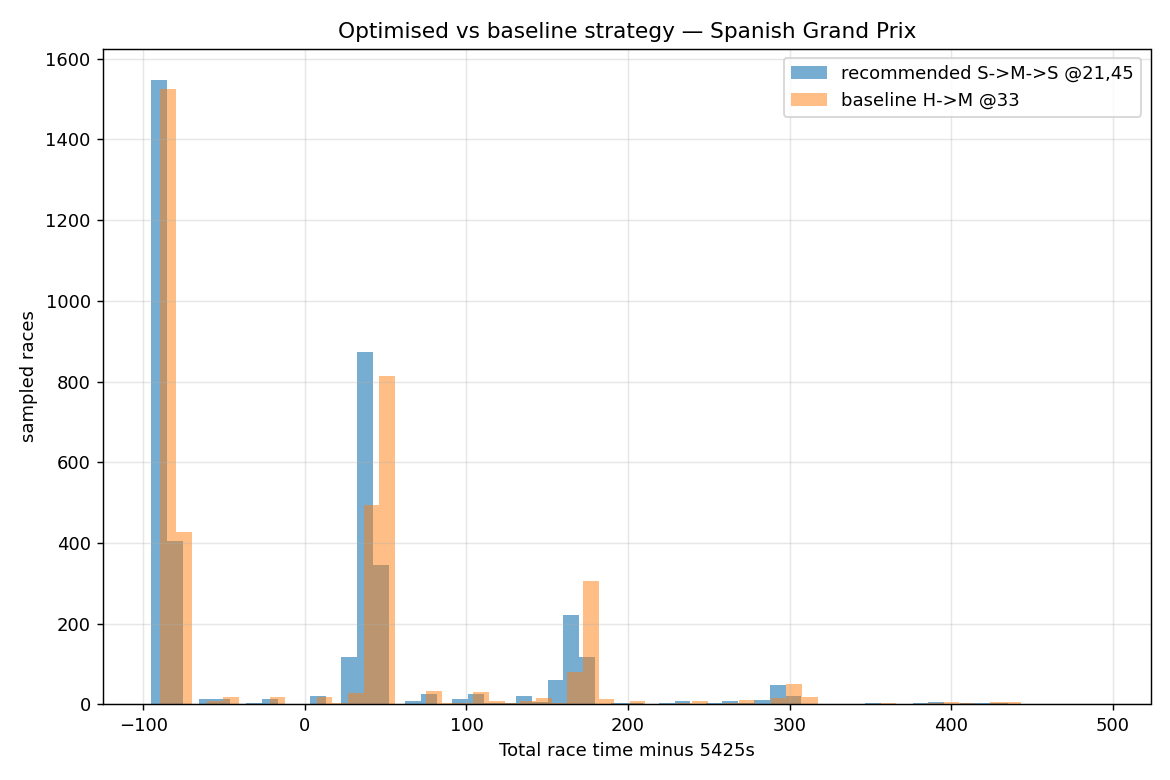
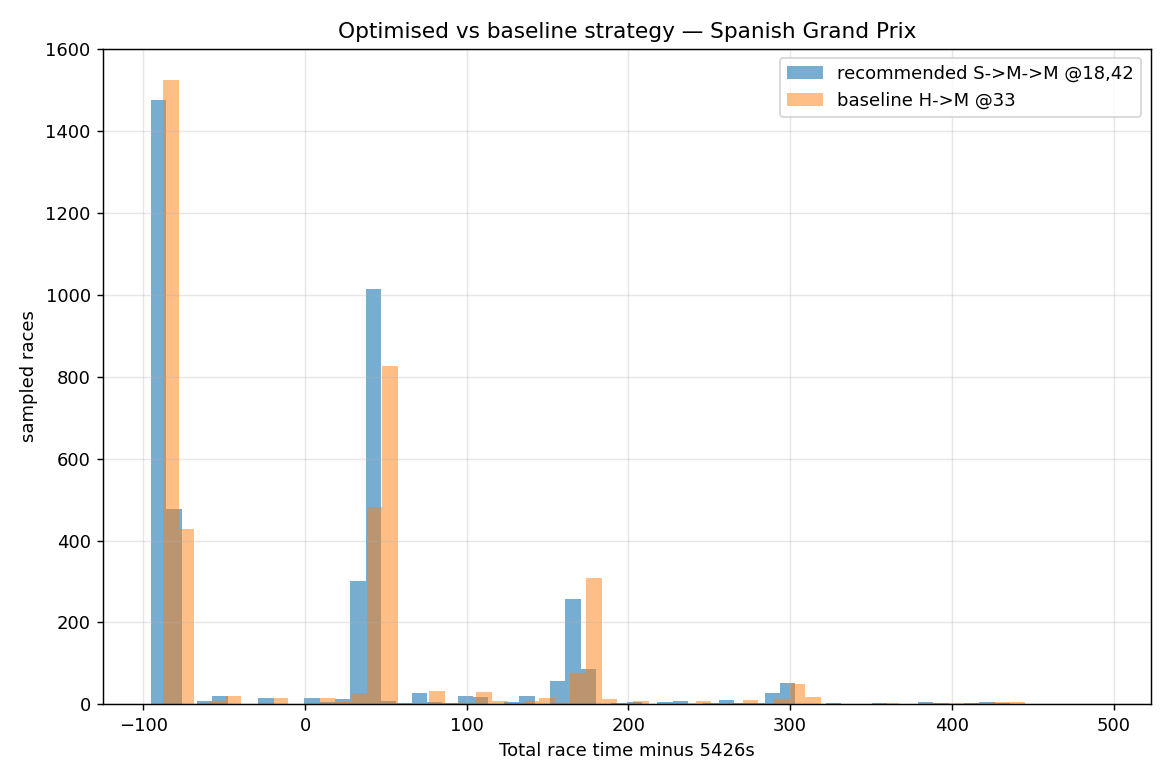
Phase 2/4 (correctness): add tunable tyre-cliff prior (domain knowledge)
The cliff is censored out of race data (proven earlier), and we confirmed no
public dataset contains it. So add it as an explicit PRIOR, not a fit:

- models/cliff.CliffPrior: extra pace loss = rate * max(age - onset, 0)**power,
  per-compound onset (SOFT 18 / MEDIUM 28 / HARD 38 laps). A documented,
  tunable ASSUMPTION (same status as the 0.03 fuel coefficient), kept separate
  from the data-fitted models. CliffPrior.disabled() recovers the pure model.
- simulate.pace_fn_from_model: optional cliff= term added to green lap time.

Effect (Spanish GP optimiser): the cliff shifts the recommendation from a
soft-heavy 2-stop (S-M-S, 42 soft laps) to a medium-heavy plan (S-M-M, 18 soft
laps) whose soft stint ends exactly at the cliff onset — the realistic
'run softs to the cliff, then switch' behaviour. Honest framing: this is a
prior that encodes physics the data can't show, not a measurement.

4 cliff tests (zero-before-onset, convex-after, disabled no-op, pace_fn wiring);
56 total, all passing.

diff --git a/src/f1se/models/cliff.py b/src/f1se/models/cliff.py
@@ -1,0 +1,59 @@
+"""Tyre-'cliff' prior — DOMAIN KNOWLEDGE, not fitted from data.
+
+The accelerating end-of-life degradation (the 'cliff') is censored out of race
+data: teams pit before it, so it cannot be estimated from observed laps (we
+proved this in :mod:`f1se.models.degradation_poly` — a quadratic fit was worse
+out-of-sample and showed no consistent curvature). Yet the cliff is real physics,
+and ignoring it makes the optimiser over-prefer long stints on soft tyres.
+
+So we add it as an explicit, tunable **prior** — the same status as the 0.03 s/kg
+fuel coefficient: an assumption, clearly labelled, seeded from public Pirelli /
+engineering guidance, NOT presented as a measurement. Pace loss gains an extra
+convex term beyond a per-compound onset age::
+
+    extra(age) = rate * max(age - cliff_age[compound], 0) ** power
+
+Zero within a tyre's normal window, then accelerating — soft tyres cliff earliest.
+Set :meth:`CliffPrior.disabled` to turn it off and recover the pure data model.
+"""
+
+from __future__ import annotations
+
+from dataclasses import dataclass, field
+
+
+def _default_cliff_ages() -> dict[str, float]:
+    # Onset (laps of tyre age) where degradation starts to accelerate. Seeded
+    # from typical F1 stint behaviour: softs fall off earliest, hards last
+    # longest. These are ASSUMPTIONS — tune per track / from team knowledge.
+    return {"SOFT": 18.0, "MEDIUM": 28.0, "HARD": 38.0}
+
+
+@dataclass(frozen=True)
+class CliffPrior:
+    """A physical, tunable tyre-cliff prior (not data-derived).
+
+    Attributes
+    ----------
+    cliff_age
+        Per-compound tyre age (laps) at which degradation starts accelerating.
+    rate
+        Seconds of extra pace loss per ``(lap beyond onset) ** power``.
+    power
+        Convexity of the cliff (2.0 = quadratic acceleration).
+    """
+
+    cliff_age: dict[str, float] = field(default_factory=_default_cliff_ages)
+    rate: float = 0.05
+    power: float = 2.0
+
+    @classmethod
+    def disabled(cls) -> "CliffPrior":
+        """A no-op prior (no cliff) — recovers the pure data-fitted model."""
+        return cls(cliff_age={}, rate=0.0)
+
+    def extra_loss(self, compound: str, tyre_age: float) -> float:
+        """Extra pace loss (s) from the cliff at this compound/age (>= 0)."""
+        onset = self.cliff_age.get(compound, float("inf"))
+        over = max(float(tyre_age) - onset, 0.0)
+        return self.rate * over ** self.power

diff --git a/tests/test_cliff.py b/tests/test_cliff.py
@@ -1,0 +1,47 @@
+"""No-network tests for the tyre-cliff prior."""
+
+from __future__ import annotations
+
+import numpy as np
+
+from f1se.models.cliff import CliffPrior
+from f1se.models.degradation import DegradationModel
+from f1se.sim.simulate import pace_fn_from_model
+
+
+def test_cliff_zero_before_onset_and_convex_after():
+    c = CliffPrior(cliff_age={"SOFT": 18.0}, rate=0.05, power=2.0)
+    assert c.extra_loss("SOFT", 10) == 0.0          # within window
+    assert c.extra_loss("SOFT", 18) == 0.0          # at onset
+    # 3 laps past: 0.05 * 3^2 = 0.45; 6 past: 0.05 * 36 = 1.8 (accelerating).
+    assert np.isclose(c.extra_loss("SOFT", 21), 0.45)
+    assert np.isclose(c.extra_loss("SOFT", 24), 1.80)
+    assert c.extra_loss("SOFT", 24) > 2 * c.extra_loss("SOFT", 21)  # convex
+
+
+def test_unknown_compound_has_no_cliff():
+    c = CliffPrior(cliff_age={"SOFT": 18.0})
+    assert c.extra_loss("HARD", 50) == 0.0          # no onset defined -> inf
+
+
+def test_disabled_prior_is_noop():
+    c = CliffPrior.disabled()
+    assert c.extra_loss("SOFT", 60) == 0.0
+
+
+def _model():
+    # Minimal degradation model: flat pace, so we isolate the cliff's effect.
+    return DegradationModel(
+        group_cols=("event_name", "compound"),
+        slopes={}, intercepts={}, compound_slope={}, global_slope=0.0,
+    )
+
+
+def test_pace_fn_adds_cliff_extra():
+    model = _model()
+    cliff = CliffPrior(cliff_age={"SOFT": 18.0}, rate=0.05, power=2.0)
+    no_cliff = pace_fn_from_model(model, "X", 60, cliff=None)
+    with_cliff = pace_fn_from_model(model, "X", 60, cliff=cliff)
+    # Below onset: identical. Above onset: cliff adds the extra loss.
+    assert with_cliff("SOFT", 10, 30) == no_cliff("SOFT", 10, 30)
+    assert np.isclose(with_cliff("SOFT", 24, 30) - no_cliff("SOFT", 24, 30), 1.80)

diff --git a/notebooks/phase4_optimize.py b/notebooks/phase4_optimize.py
@@ -18,6 +18,7 @@ import pandas as pd
 
 from f1se.config import PROJECT_ROOT
 from f1se.eda import compound_stint_limits
+from f1se.models.cliff import CliffPrior
 from f1se.models.degradation import fit_linear_baseline
 from f1se.sim.optimize import recommend_strategy
 from f1se.sim.safety_car import SafetyCarModel
@@ -48,30 +49,45 @@ def main() -> None:
 
     ev = laps[laps["event_name"] == TRACK]
     total_laps = int(ev["lap_number"].max())
-    pace_fn = pace_fn_from_model(model, TRACK, total_laps)
     sc_model = SafetyCarModel.from_rate(0.7, total_laps)
 
     # Cap each compound's stint at its observed range so the optimiser doesn't
     # extrapolate the linear degradation model into the (censored) cliff region.
     limits = compound_stint_limits(laps, quantile=0.9)
     common = dict(sc_model=sc_model, n_runs=4000, pit_grid_step=3, min_stint=9,
-                  seed=42, max_stint=limits)
+                  seed=42, max_stint=limits, objective="mean")
+
+    # Pure data model vs data model + domain cliff prior.
+    cliff = CliffPrior()  # SOFT cliffs at age 18, MEDIUM 28, HARD 38 (assumption)
+    pace_data = pace_fn_from_model(model, TRACK, total_laps)
+    pace_cliff = pace_fn_from_model(model, TRACK, total_laps, cliff=cliff)
+
+    def soft_laps(strat) -> int:
+        bounds = [0, *strat.pit_laps, total_laps]
+        return sum(bounds[k + 1] - bounds[k]
+                   for k, c in enumerate(strat.compounds) if c == "SOFT")
 
     print(f"{TRACK}: {total_laps} laps")
-    print(f"Stint limits (p90 observed) used to bound extrapolation: {limits}\n")
-    mean_res = recommend_strategy(total_laps, pace_fn, objective="mean", **common)
-    print(f"Searched {mean_res.n_evaluated} strategies.\n")
-    print("=== Objective: minimise EXPECTED time ===")
-    print(f"Recommended: {_lbl(mean_res.best.compounds, mean_res.best.pit_laps)}")
-    _print_shortlist(mean_res)
+    print(f"Stint limits (p90 observed): {limits}")
+    print(f"Cliff prior (DOMAIN ASSUMPTION): onset {cliff.cliff_age}, rate {cliff.rate}\n")
 
-    print("\n=== Objective: minimise the 85th-percentile time (risk-averse) ===")
-    p85_res = recommend_strategy(total_laps, pace_fn, objective="p85", **common)
-    print(f"Recommended: {_lbl(p85_res.best.compounds, p85_res.best.pit_laps)}")
-    _print_shortlist(p85_res)
+    data_res = recommend_strategy(total_laps, pace_data, **common)
+    cliff_res = recommend_strategy(total_laps, pace_cliff, **common)
 
-    same = p85_res.best == mean_res.best
-    print(f"\nRisk-averse pick {'matches' if same else 'DIFFERS from'} the expected-time pick.")
+    print(f"=== Pure data model (no cliff) — searched {data_res.n_evaluated} ===")
+    print(f"Recommended: {_lbl(data_res.best.compounds, data_res.best.pit_laps)}"
+          f"   (soft laps: {soft_laps(data_res.best)})")
+    _print_shortlist(data_res)
+
+    print(f"\n=== Data model + cliff prior ===")
+    print(f"Recommended: {_lbl(cliff_res.best.compounds, cliff_res.best.pit_laps)}"
+          f"   (soft laps: {soft_laps(cliff_res.best)})")
+    _print_shortlist(cliff_res)
+
+    shifted = data_res.best != cliff_res.best
+    print(f"\nCliff prior {'CHANGED' if shifted else 'did not change'} the recommendation; "
+          f"soft laps {soft_laps(data_res.best)} -> {soft_laps(cliff_res.best)}.")
+    mean_res = cliff_res  # use the cliff-aware recommendation for the plot
 
     # Plot: recommended vs the shortlist's slowest, distributions.
     fig, ax = plt.subplots(figsize=(9, 6))
@@ -81,7 +97,7 @@ def main() -> None:
     # A clearly worse one-stop for contrast.
     worse = Strategy(("HARD", "MEDIUM"), (total_laps // 2,))
     from f1se.sim.simulate import simulate_race
-    w = simulate_race(worse, total_laps, pace_fn, sc_model=sc_model, n_runs=4000, seed=42)
+    w = simulate_race(worse, total_laps, pace_cliff, sc_model=sc_model, n_runs=4000, seed=42)
     ax.hist(w.samples - base, bins=60, alpha=0.5, label=f"baseline {_lbl(worse.compounds, worse.pit_laps)}")
     ax.set_xlabel(f"Total race time minus {base:.0f}s")
     ax.set_ylabel("sampled races")

diff --git a/src/f1se/sim/simulate.py b/src/f1se/sim/simulate.py
@@ -177,18 +177,21 @@ def simulate_race(
 
 
 def pace_fn_from_model(deg_model, track: str, total_laps: int, *, sec_per_kg=0.03,
-                       start_fuel_kg=110.0) -> PaceFn:
+                       start_fuel_kg=110.0, cliff=None) -> PaceFn:
     """Build a ``pace_fn`` from a fitted degradation model + a fuel model.
 
-    Green lap time = fuel-corrected pace (intercept + degradation) + fuel penalty,
-    so heavy early laps are slower and pace rises with tyre age.
+    Green lap time = fuel-corrected pace (intercept + data-fitted degradation)
+    + fuel penalty + optional :class:`~f1se.models.cliff.CliffPrior` extra. The
+    cliff term is a domain prior (not data); pass ``cliff=None`` for the pure
+    data model.
     """
     from f1se.models.degradation import predict_corrected_laptime
 
     def pace_fn(compound: str, tyre_age: int, lap: int) -> float:
         corrected = predict_corrected_laptime(deg_model, compound, tyre_age, track=track)
         fuel_mass = start_fuel_kg * max(total_laps - lap, 0) / total_laps
-        return corrected + sec_per_kg * fuel_mass
+        extra = cliff.extra_loss(compound, tyre_age) if cliff is not None else 0.0
+        return corrected + sec_per_kg * fuel_mass + extra
 
     return pace_fn
 